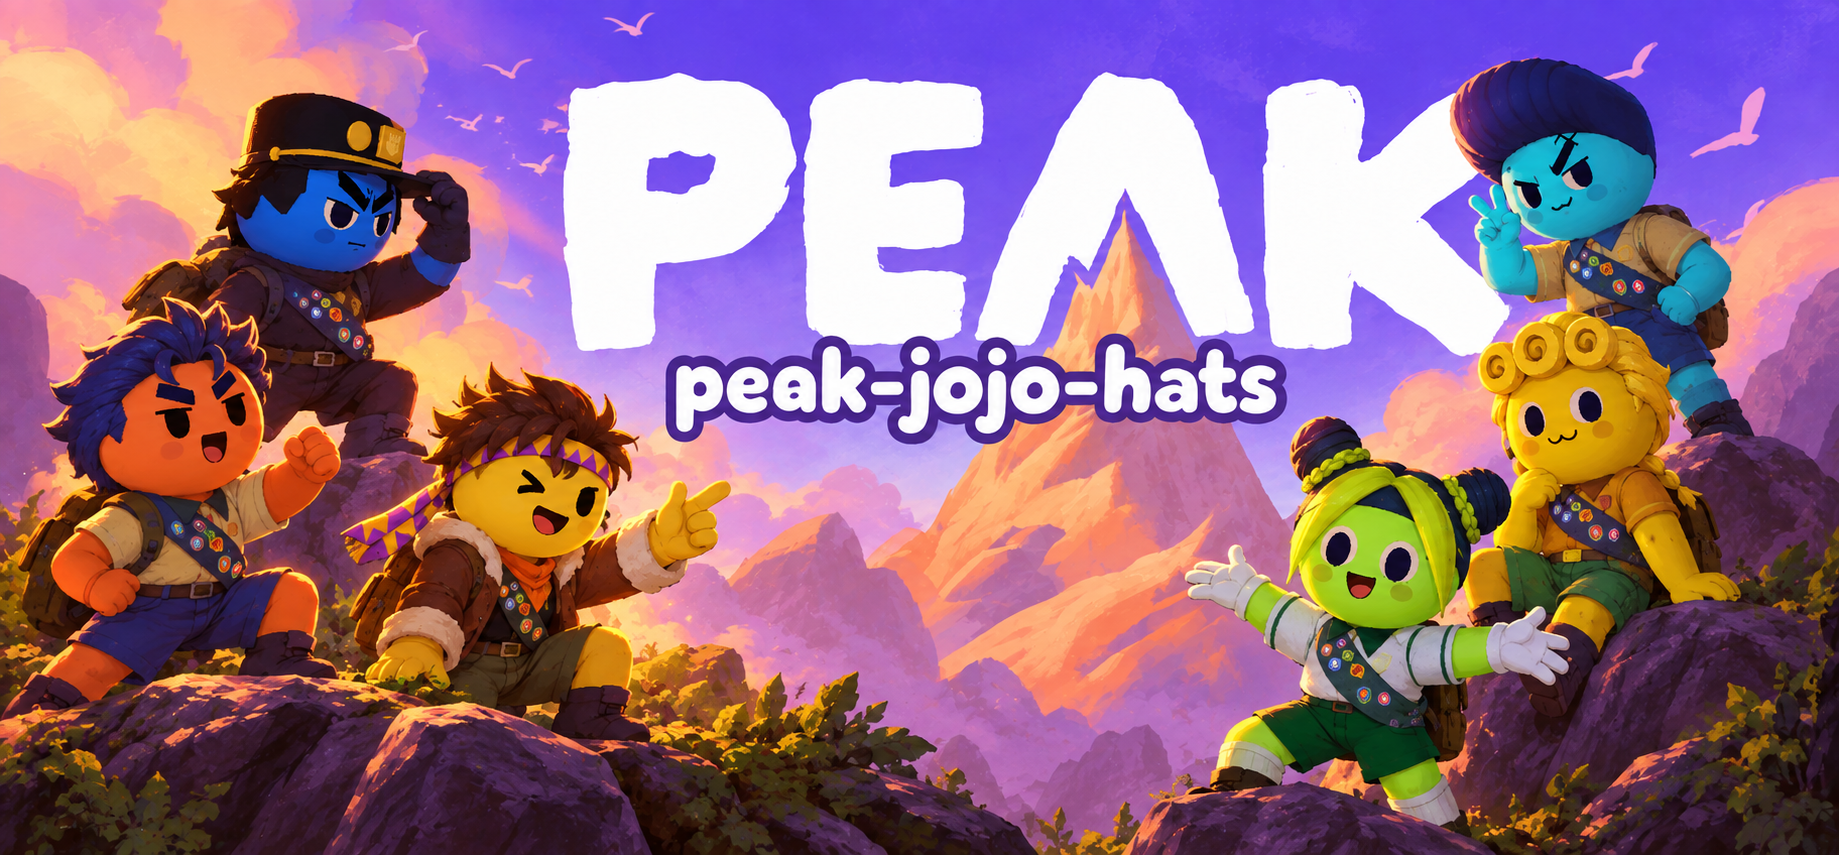
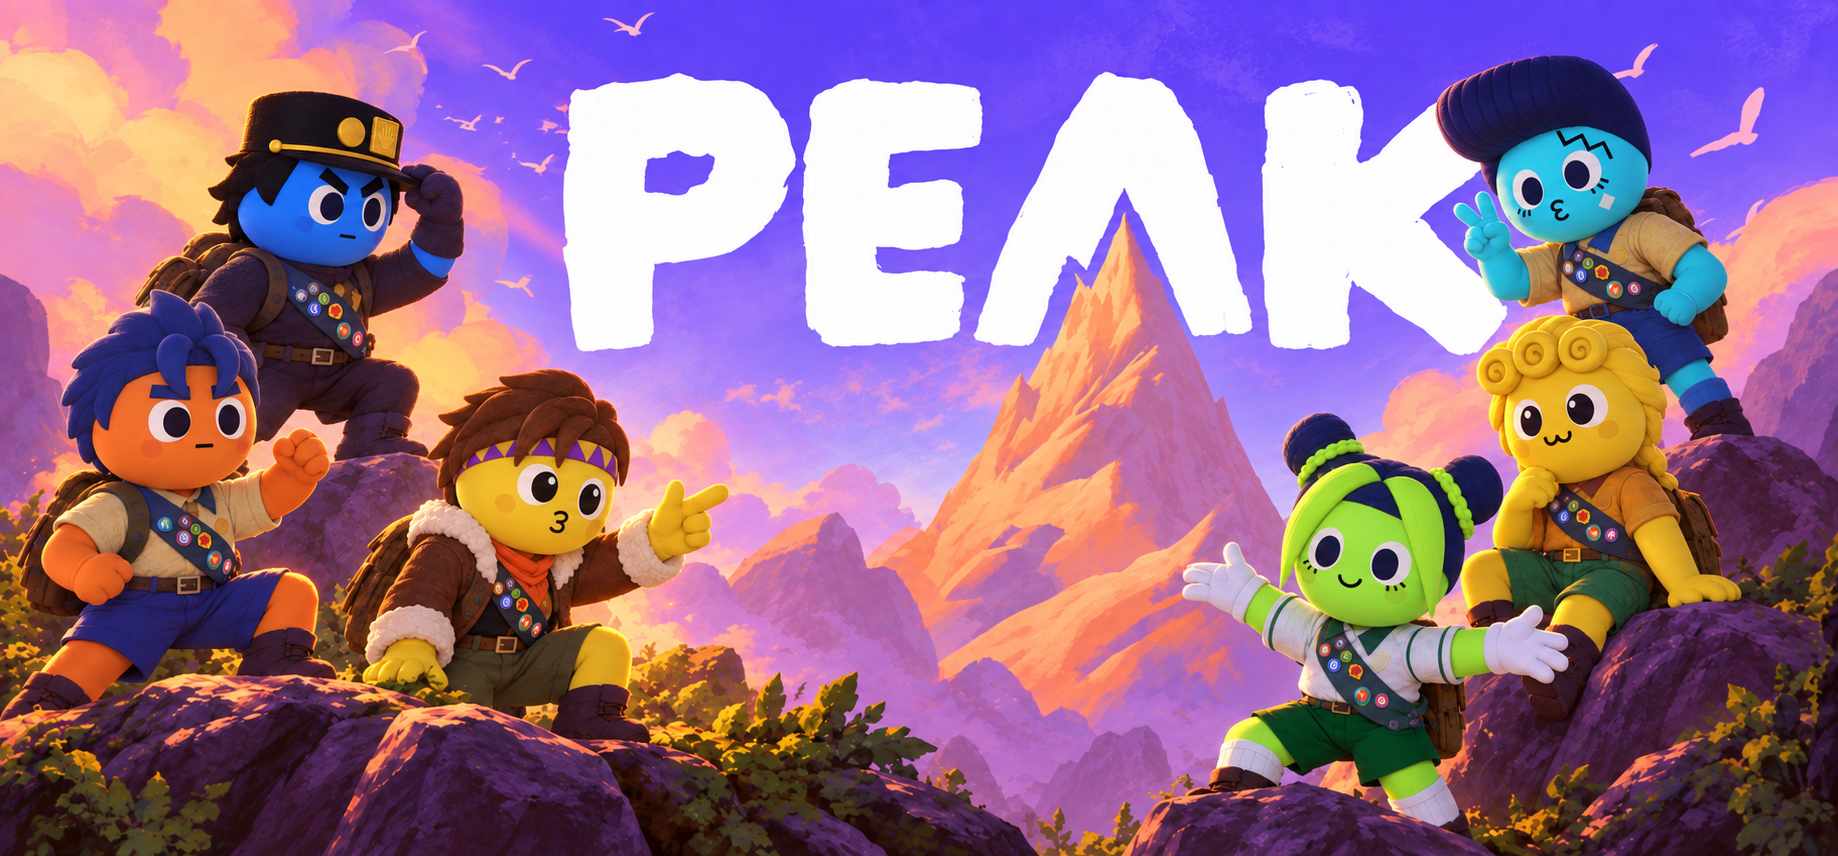
Update project header and v0.5.2 cover

diff --git a/src/Plugin.cs b/src/Plugin.cs
@@ -18,7 +18,7 @@ namespace JojoHats;
 [BepInDependency("MoreCustomizations", "1.1.10")]
 public sealed class Plugin : BaseUnityPlugin
 {
-    internal const string Version = "0.5.1";
+    internal const string Version = "0.5.2";
     private const string Prefix = "jojo_mvp_";
     private static readonly string[] Ids = {
         "01_jotaro_cap", "02_josuke_pompadour", "03_giorno_rolls",

diff --git a/README.md b/README.md
@@ -16,7 +16,7 @@
 
 <p align="center">
   <a href="https://thunderstore.io/c/peak/p/Rachel560lu/JojoScoutHats/"><img src="https://img.shields.io/badge/Download-Thunderstore-a4d56e?style=for-the-badge&amp;labelColor=555555" alt="Download on Thunderstore / 在 Thunderstore 下载"></a>
-  <a href="CHANGELOG.md"><img src="https://img.shields.io/badge/Version-v0.5.1-405c68?style=for-the-badge&amp;labelColor=555555" alt="Version 0.5.1"></a>
+  <a href="CHANGELOG.md"><img src="https://img.shields.io/badge/Version-v0.5.2-405c68?style=for-the-badge&amp;labelColor=555555" alt="Version 0.5.2"></a>
   <a href="docs/INSTALL.md"><img src="https://img.shields.io/badge/BepInEx-5-405c68?style=for-the-badge&amp;labelColor=555555" alt="Requires BepInEx 5"></a>
   <img src="https://img.shields.io/badge/Hats-6-7560a8?style=for-the-badge&amp;labelColor=555555" alt="Six head cosmetics / 六款头饰">
 </p>
@@ -88,7 +88,7 @@ Matching JOJO outfits for the six scouts are planned. Here's a first look at the
 
 ## Source and development
 
-Current version: **0.5.1**. This documentation update adds the outfit concept preview; runtime logic is unchanged from v0.5.0 and the six models are unchanged from v0.4.2. The repository includes the C# loader, procedural model sources, exported JSON/OBJ meshes, shared palette and the six original-size showcase images.
+Current version: **0.5.2**. This update refreshes the package cover and project header; runtime logic is unchanged from v0.5.0 and the six models are unchanged from v0.4.2. The repository includes the C# loader, procedural model sources, exported JSON/OBJ meshes, shared palette and the six original-size showcase images.
 
 See [Build and model development](docs/BUILD.md), [validation scope](docs/VALIDATION.md) and [changelog](CHANGELOG.md). Game assemblies and third-party mod DLLs are **not** distributed here; a local PEAK installation is needed to compile the loader.
 

diff --git a/README.zh-CN.md b/README.zh-CN.md
@@ -16,7 +16,7 @@
 
 <p align="center">
   <a href="https://thunderstore.io/c/peak/p/Rachel560lu/JojoScoutHats/"><img src="https://img.shields.io/badge/Download-Thunderstore-a4d56e?style=for-the-badge&amp;labelColor=555555" alt="Download on Thunderstore / 在 Thunderstore 下载"></a>
-  <a href="CHANGELOG.md"><img src="https://img.shields.io/badge/Version-v0.5.1-405c68?style=for-the-badge&amp;labelColor=555555" alt="Version 0.5.1"></a>
+  <a href="CHANGELOG.md"><img src="https://img.shields.io/badge/Version-v0.5.2-405c68?style=for-the-badge&amp;labelColor=555555" alt="Version 0.5.2"></a>
   <a href="docs/INSTALL.md"><img src="https://img.shields.io/badge/BepInEx-5-405c68?style=for-the-badge&amp;labelColor=555555" alt="Requires BepInEx 5"></a>
   <img src="https://img.shields.io/badge/Hats-6-7560a8?style=for-the-badge&amp;labelColor=555555" alt="Six head cosmetics / 六款头饰">
 </p>
@@ -88,7 +88,7 @@
 
 ## 开发与源码
 
-当前版本：**0.5.1**。本次说明更新加入服装概念预告；加载逻辑沿用 v0.5.0，六款模型沿用 v0.4.2。仓库包含 C# 加载器、程序化建模源码、JSON／OBJ 模型、共享色板以及六张原尺寸展示图。
+当前版本：**0.5.2**。本次更新替换了模组封面与项目横幅；加载逻辑沿用 v0.5.0，六款模型沿用 v0.4.2。仓库包含 C# 加载器、程序化建模源码、JSON／OBJ 模型、共享色板以及六张原尺寸展示图。
 
 参阅[构建与模型开发](docs/BUILD.md)、[验证范围](docs/VALIDATION.md)和[更新记录](CHANGELOG.md)。仓库不分发游戏程序集或其他模组 DLL；编译加载器需要你本地合法安装的 PEAK。
 

diff --git a/docs/RELEASE-README.md b/docs/RELEASE-README.md
@@ -6,7 +6,7 @@
 
 JOJO-inspired hats and hairstyles for PEAK. 给 PEAK 小人换个 JOJO 发型。
 
-Six head cosmetics inspired by Jotaro, Jolyne, Giorno, Josuke, Joseph and Jonathan, alongside your other cosmetics. **Version 0.5.1** adds an outfit concept preview to this page; runtime logic is unchanged from v0.5.0 and the six models are unchanged from v0.4.2.
+Six head cosmetics inspired by Jotaro, Jolyne, Giorno, Josuke, Joseph and Jonathan, alongside your other cosmetics. **Version 0.5.2** updates the package cover; runtime logic is unchanged from v0.5.0 and the six models are unchanged from v0.4.2. The outfit concept preview remains below.
 
 [In-game gallery and source](https://github.com/Rachel560lu/peak-jojo-hats) · [中文介绍](https://github.com/Rachel560lu/peak-jojo-hats/blob/main/README.zh-CN.md) · [Installation and troubleshooting](https://github.com/Rachel560lu/peak-jojo-hats/blob/main/docs/INSTALL.md) · [Report an issue](https://github.com/Rachel560lu/peak-jojo-hats/issues)
 

diff --git a/CHANGELOG.md b/CHANGELOG.md
@@ -1,3 +1,10 @@
+# 0.5.2
+
+- Update the package cover with the revised, borderless JOJO scout illustration.
+- No changes to models, cosmetic IDs, dependencies or runtime logic.
+
+中文：更新为无边框新版封面，六款头饰与加载逻辑不变。
+
 # 0.5.1
 
 - Add a bilingual coming-soon section and concept illustration for planned JOJO outfits.
